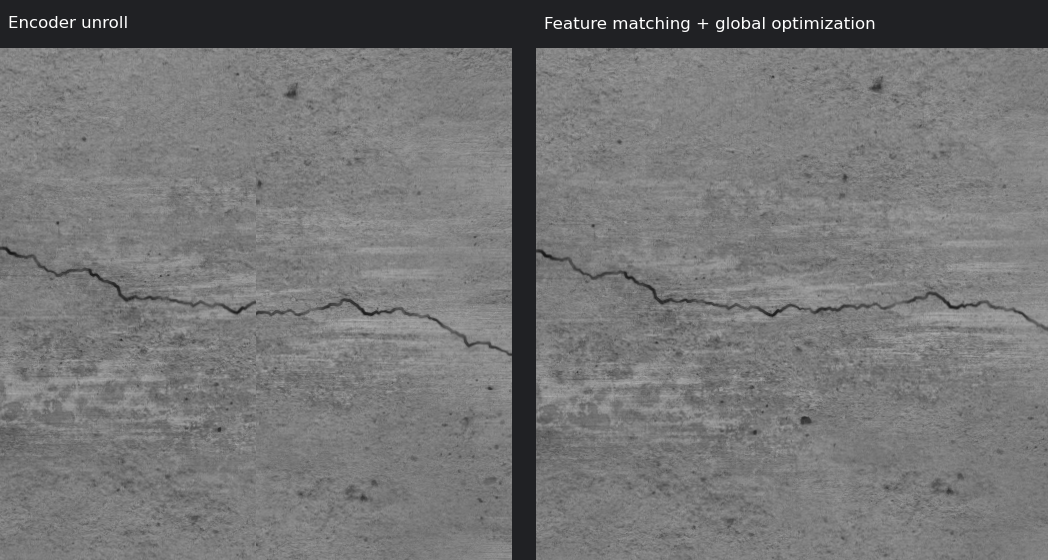
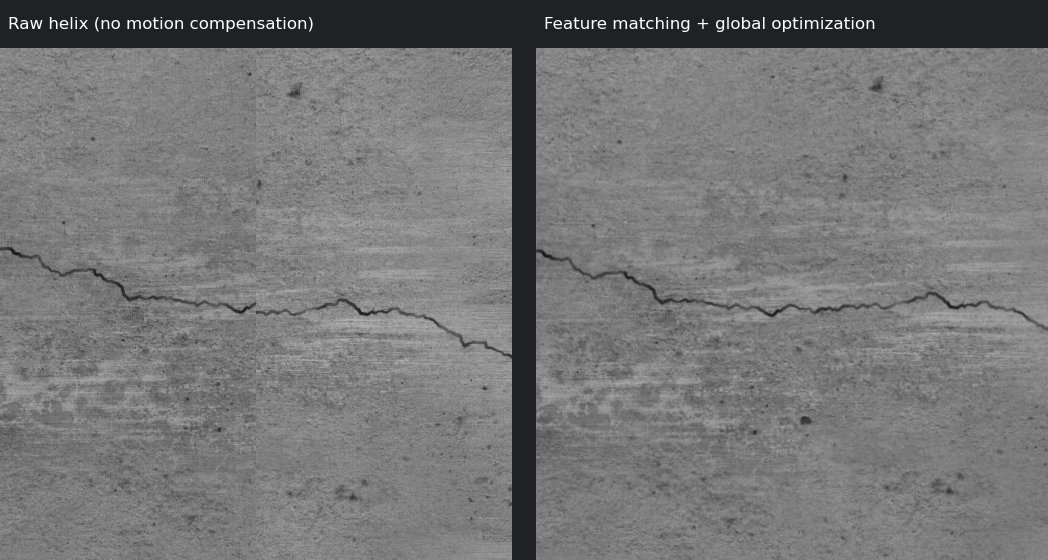
Publish raw helical comparisons and separate support checks from 20 m accuracy failure

diff --git a/README.md b/README.md
@@ -2,7 +2,7 @@
 
 本项目复现轨道巡检机器人搭载旋转线阵相机的连续螺旋采集：车辆沿钢轨前进，相机与 COB 光源共同旋转，编码器按角度触发每一行，在上方 240° 范围内采集隧道内壁。Gazebo 负责轮轨接触和运动，OptiX 负责高速线阵成像，ROS 2 / RViz 提供任务控制与状态显示。后续通过图像展开、特征匹配和全局拼接优化，复原隧道内壁全图。
 
-**当前进度（2026-10-03）：** 已完成带起伏轨道的采集、采后光学校正、CUDA 展开、特征匹配和连续轨迹优化。3 米独立区段通过 1 px 接缝验收；带假设噪声档的新 20 米采集已输出整幅名义/优化图，均无覆盖缺口。20 米接缝 P95 为 0.565/0.653 px，但末圈 15 个预定双圈评价点缺测，**整体验收尚未通过**。后续先处理末圈支撑问题，再做融合及轮径/安装误差验证；最多扩展到 **50 米**。
+**当前进度（2026-10-03）：** 已完成带起伏轨道的采集、采后光学校正、CUDA 展开、特征匹配和连续轨迹优化。旧 20 米批次已输出完整名义/优化图，覆盖及保存值核验通过，原协议的 15 点缺测失败记录保留。双圈共同视场评价修复后，冻结的新 3 米复采中，已规划接缝窗口内/窗口间 P95 为 0.478/0.647 px、无缺测；新巡航余量 20 米批次的已规划点也无缺测，但窗口间 P95 为 **4.232 px**，**整体验收仍未通过**。下一步先在 3 米任务中加入轮径及扫描轴安装误差，20 米精度问题另行处理；最多扩展到 **50 米**。
 
 ## 运行效果
 
@@ -288,13 +288,13 @@ ros2 run ssb_tools review_global_bands \
 python3 -m http.server 8765 --bind 127.0.0.1 --directory sessions/d3_review_NEW
 ```
 
-对比页显示同一网格上的编码器名义拼接和全局优化拼接，以及 100% 像素的硬接缝局部图。初始展开已补偿名义螺旋位移；优化进一步修正图像估计的轨迹误差，两侧都不做融合或锐化。正式带起伏 3 米留出采集的独立网格接缝 P95，窗口内/窗口间分别为 **0.547/0.775 px**，通过现行 **P95≤1 px** 目标。全原图无饱和，3 米全图覆盖和保存值核验通过。新 20 米带噪声全图为 `57596×100000`，约 57.6 亿像素，覆盖和保存值核验也通过；末圈双圈接缝缺测仍使整体门限失败。全图有覆盖不表示全像素几何精度达标。详见 [20 米整幅结果与未通过项](docs/STAGE_D.md#20-m-带噪声整幅输出)。
+对比页显示同一网格上的编码器名义拼接和全局优化拼接，以及 100% 像素的硬接缝局部图。初始展开已补偿名义螺旋位移；优化进一步修正图像估计的轨迹误差，两侧都不做融合或锐化。正式带起伏 3 米留出采集的独立网格接缝 P95，窗口内/窗口间分别为 **0.547/0.775 px**，通过现行 **P95≤1 px** 目标。全原图无饱和，3 米全图覆盖和保存值核验通过。旧 20 米带噪声全图为 `57596×100000`，约 57.6 亿像素，覆盖和保存值核验也通过；末圈双圈接缝缺测仍使整体门限失败。全图有覆盖不表示全像素几何精度达标。详见 [20 米整幅结果与未通过项](docs/STAGE_D.md#20-m-带噪声整幅输出)。
 
-以下是新 20 米数据的两组局部对比：左侧编码器名义展开，右侧图像匹配和全局优化。每侧 512×512、约 0.2 mm/像素；同一光学校正和亮度，无融合、锐化或自动对比度。位置按公开图像的宽/细线形态选择，展示图不替代全量验收。
+以下局部图来自保留的旧 20 米批次：左侧是未经螺旋、畸变和平场补偿的原始条带，每圈只使用一个固定编码器位置摆放；右侧是采后光学校正、展开、图像匹配和全局优化的结果。每侧 512×512、固定 DN 0–255，无融合、锐化或自动对比度。位置按公开图像的宽/细线形态选择，展示图不替代全量验收；D3 的定量收益仍以名义展开为基线，不能把整条处理链的收益都算给全局优化。
 
-![板缝形态附近的名义与优化硬接缝](docs/media/joint_comparison_20m.png)
+![板缝形态附近的原始条带与优化结果](docs/media/joint_comparison_20m.png)
 
-![裂缝形态附近的名义与优化硬接缝](docs/media/crack_comparison_20m.png)
+![裂缝形态附近的原始条带与优化结果](docs/media/crack_comparison_20m.png)
 
 <details>
 <summary>查看未补偿的单圈原始图，保留前进造成的倾斜</summary>
@@ -366,9 +366,9 @@ python3 tools/test_gazebo_plugins.py --output /tmp/ssb_plugin_regression_NEW \
   > /tmp/ssb_plugin_regression.log 2>&1
 ```
 
-默认使用 4 个 Python 工作进程，按上次报告的用例耗时分组；CPU 用例与 C++ 测试同时运行，Python CUDA 用例等待 C++ OptiX 测试退出后运行。不需要安装 pytest-xdist 等额外依赖，也不会筛掉用例或改变验收门限。当前完整回归 **501 项全部通过、无跳过**（423 Python +78 C++），本机约 **27 秒**；原有 388 项版本约 23 秒，普通入口当时约 56–57 秒，不能把不同用例数量直接当成速度比较。
+默认使用 4 个 Python 工作进程，按上次报告的用例耗时分组；CPU 用例与 C++ 测试同时运行，Python CUDA 用例等待 C++ OptiX 测试退出后运行。不需要安装 pytest-xdist 等额外依赖，也不会筛掉用例或改变验收门限。当前完整回归按 colcon 计 **519 项全部通过、无跳过**（441 Python 用例、73 C++ 用例及 5 个 CTest 测试套件；独立用例共 514 项），本机约 **27 秒**；原有 388 项版本约 23 秒，普通入口当时约 56–57 秒，不能把不同用例数量直接当成速度比较。
 
-脚本保存各组日志及 XML，核对用例身份、数量、重复项和退出码，再合并到 `build/ssb_tools/pytest.xml`，仍可用 `colcon test-result --all` 查看结果。默认日志目录为 `log/parallel_tests_时间_进程号/`；可用 `--output` 指定新的目录，或用 `--workers 1` 将 Python 用例改为串行排查。原始 `colcon test` 入口也保留。完整 20 米采集/展开复测及上面的 Gazebo 实际服务器回归仍单独执行，不包含在这 501 项中。
+脚本保存各组日志及 XML，核对用例身份、数量、重复项和退出码，再合并到 `build/ssb_tools/pytest.xml`，仍可用 `colcon test-result --all` 查看结果。默认日志目录为 `log/parallel_tests_时间_进程号/`；可用 `--output` 指定新的目录，或用 `--workers 1` 将 Python 用例改为串行排查。原始 `colcon test` 入口也保留。完整 20 米采集/展开复测及上面的 Gazebo 实际服务器回归仍单独执行，不包含在这 519 项中。
 
 原生 Linux 的 GPU 测试应直接加载系统运行库；现有 WSL 包装测试不能当作原生部署验收，见 [部署文档](docs/DEPLOYMENT.md)。
 

diff --git a/docs/DATA_RETENTION.md b/docs/DATA_RETENTION.md
@@ -6,6 +6,11 @@
 
 | 数据 | 位置 | 用途 |
 |---|---|---|
+| 双圈共同域协议新采 | `sessions/d3_common_target_3m_20261003/`、`local_data/evaluation/d3_common_target_3m_20261003/` | `81fe051` 冻结复采，公共输入复现、采集验收与协议检查通过；已规划接缝通过，目标外及不可规划位置单列。保留原图和独立重成像 |
+| 共同域 v1 失败反例 | `sessions/d3_common_domain_3m_20261003/`、`local_data/evaluation/d3_common_domain_3m_20261003/` | 目标末端 9 点缺测的旧规则失败及公开支撑诊断；不能用新协议覆盖旧报告 |
+| 新巡航余量 20 m 反例 | `sessions/d3_noise_20m_support_20261003/`、`local_data/evaluation/d3_noise_20m_support_20261003/` | 已规划共同域无缺测，但窗口间 P95 4.232 px 仍失败；原协议与补充 v2 评价分别保留，新批次尚未生成优化整幅输出 |
+| README 未补偿螺旋对比 | `sessions/d3_noise_20m_v2_20261003/feature_review_rawleft/`、`local_data/readme_export_rawleft_20m_20261003/` | 旧采集原图和重建不变，`284e265` 生成原始左图、优化右图，逐像素与哈希核验通过；当前 8769 特征复核页 |
+| 双圈支撑回归证据 | `local_data/evaluation/double_support_fix_20261003/` | 日志归档、完整 XML、真实空隙/旧实现变异检查、导出像素校验及清理清单 |
 | 默认完整演示及标定 | `local_data/stage_b/contact_demo/` | Gazebo/RViz 默认入口；当前采集 250°、输出 240°、增益 2.4，带 2 mm 档轨道起伏。旧光学场景及 `*_baseline_240_20261003` 配置/标定保留，新旧会话不能混用标定 |
 | 三种公开素材原图 | `local_data/stage_b/sources/` | 从网站原图重新生成资产 |
 | 原生成链及旧演示配置 | `local_data/stage_b/` 下 c034、几何、缺陷、GUI、砂浆及 unbundled 目录 | 历史评价仍记录原资产身份和路径，暂不清理 |
@@ -117,3 +122,9 @@ local_data/evaluation/cleanup_20261002_public/
 两个 20 m 批次均独立重成像并通过原图/表文件比较，之后才按实际 SHA-256 和尺寸共享不可变原图块。两个重成像各 495 块、第二批采集与第一批相同的 494 块改为硬链接，共释放 **23.18 GiB**（24,894,095,360 字节）。不删除失败批次、原始曝光、元数据、独立评价或重建输入，不把第二批不同的一个块强行当成相同；内容与所有路径/哈希记录保留。明细见两份 `replay_deduplication.json`。
 
 删除三个已结束回归目录中的 12 个临时夹具目录，以及两份被正式导出替代的临时 README 图片目录。日志、XML、摘要仍保留，三个测试归档逐文件核验通过；正式 501 项测试报告及 README 导出溯源不删。清单 `local_data/evaluation/d3_noise_20m_v2_20261003/cleanup.json`。
+
+## 2026-10-03 双圈支撑与展示修复
+
+旧 20 m 失败数据与全分辨率图保留；README 和 8769 的主要对比左图更新为未补偿螺旋的原始条带，名义展开作为中间状态。新巡航余量 20 m 批次的真实窗口间精度失败、共同域 v1 的 3 m 边界失败、冻结后 v2 的 3 m 复核分别归档，不因新规则而改写历史报告。评价真值与密钥不加入 Git 或复核网页。
+
+两份完成的测试套件清理了 8 个临时夹具目录，逻辑文件约 1.085 GB；没有删除采集会话、原图或独立评价。删除前逐文件核验日志压缩包，最终测试 XML 另行归档。`final_test_counts.json` 区分 441 个 Python、73 个 C++ 独立用例与 5 个 CTest 套件，colcon 总计 519、独立用例 514，全通过无跳过。清单见 `fixture_cleanup.json`。清理在 Linux 文件系统内一次批量完成，没有生成逐图块小文件或对正式原图重复拷贝。

diff --git a/docs/media/README.md b/docs/media/README.md
@@ -38,9 +38,9 @@ ffmpeg -y -ss 1 -t 8 -i local_data/readme_media_20261002/rviz.mp4 \
 
 ## 重建对比图片（2026-10-03）
 
-新增 20 m 带假设噪声档、2 mm 轨道起伏数据的板缝/裂缝形态对比与单圈原始条带。采集/重建 `c77d762`，复核页 `3efba53`，导出器 `842f038`；源数据为 `sessions/d3_noise_20m_v2_20261003/feature_review/`，原图和完整成果保留。
+更新保留的 20 m 带假设噪声档、2 mm 轨道起伏数据的板缝/裂缝对比与单圈原始条带。采集/重建仍为 `c77d762`，未重新采集；未补偿螺旋的复核页与导出器为 `284e265`，源数据 `sessions/d3_noise_20m_v2_20261003/feature_review_rawleft/`。原图、旧评价和完整成果保留。
 
-`joint_comparison_20m.png` 与 `crack_comparison_20m.png` 分别选图像检测器给出的首个宽/细结构，不使用缺陷真值或真实误差选图。每侧 512×512，两个面板逐字节等于源 PNG 的 RGB 像素，只在面板之外加标题。左右同一标定、网格和固定亮度；无融合、锐化或调色。`raw_band_20m.png` 是源 `raw_band.png` 的原样复制：原始 59,259×4096 曝光数据只转置并每隔 33 像素抽样，未作光学校正和圈内位移补偿。
+`joint_comparison_20m.png` 与 `crack_comparison_20m.png` 分别选图像检测器给出的首个宽/细结构，不使用缺陷真值或真实误差选图。每侧 512×512，两个面板逐字节等于源 PNG 的 RGB 像素，只在面板之外加标题。左侧原始 Mono8 每圈仅以局部中央角度的一次编码器位置固定摆放，没有螺旋、畸变和平场补偿；右侧经过采后光学校正、展开与全局优化。两侧固定 DN 0–255，无融合、锐化或调色。此为完整处理链对比，D3 定量精度仍比较名义展开和优化。`raw_band_20m.png` 是源 `raw_band.png` 的原样复制：原始 59,259×4096 曝光数据只转置并每隔 33 像素抽样，未作光学校正和圈内位移补偿。
 
 完整输出覆盖和保存值核验通过，但末圈 15 个预定双圈评价点缺测，整体验收仍失败；展示图不能豁免该失败，也不代表所有位置都达到 1 px。两组局部图由本机可选假设噪声档生成，不替换默认关闭噪声的演示。来源、候选位置和哈希见 `manifest.json` 的 `reconstruction_figures`。
 
